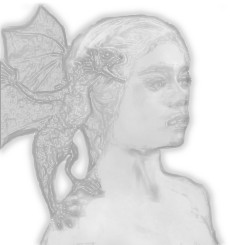
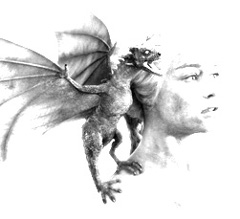
added new dragon, tweaked header and responsive sidebar

diff --git a/source/assets/css/_modules/_header.scss b/source/assets/css/_modules/_header.scss
@@ -12,13 +12,20 @@ header[role=banner] {
     color: $link-color;
     font-family: 'Tienne', serif; 
     font-weight: bold;
-    font-size: rem(27px); 
+    font-size: rem(27px);
     font-variant: small-caps; 
     text-shadow: 1px 1px 1px #000;
     letter-spacing: 2px;
     
     span {
       color: white;
+    }
+    
+    a:hover {
+      &, span {
+        color: lighten($link-color, 10%);
+        @include transition (all 0.2s ease-in-out);
+      }
     }
   }
   
@@ -49,16 +56,15 @@ nav[role=navigation] {
   top: 22px;
   width: 80%;
   line-height: rem(20px);
-  background-color: white;
+  background-color: #fefefe;
   box-shadow: 4px 0 2px -2px rgba(0,0,0, 0.1);
   overflow-y: auto;
   
   .dragon {
-    margin-top: 10px;
-    opacity: 0.5;
+    opacity: 0.95;
     box-shadow: inset 1px 1px rgba(0,0,0, 0.5);
     position: absolute;
-    bottom: 0;
+    top: 0;
     left: 0;
   }
   
@@ -76,10 +82,12 @@ nav[role=navigation] {
       font-size: rem(15px);
       padding: 5px 15px;
       color: darken($link-color, 20%);
-      border-bottom: 1px solid rgba($link-color, 0.2);
+      border-bottom: 1px solid rgba($link-color, 0.4);
+      background-color: rgba(255,255,255, 0.5);
       
-      &:hover {
-        background-color: lighten($link-color, 30%);
+      &.active, &:hover {
+        color: darken($link-color, 30%);
+        background-color: rgba($link-color, 0.3);
         border-bottom-color: $link-color;
       }
     }
@@ -88,6 +96,7 @@ nav[role=navigation] {
       float: left;
       width: 33%;
       a {
+        font-size: 22px;
         text-align: center;
       }
     }
@@ -122,6 +131,7 @@ nav[role=navigation] {
       line-height: inherit;
       
       a {
+        background-color: transparent;
         color: #01acfe;
         text-shadow: 1px 1px 1px #000;
         border: 0 none;
